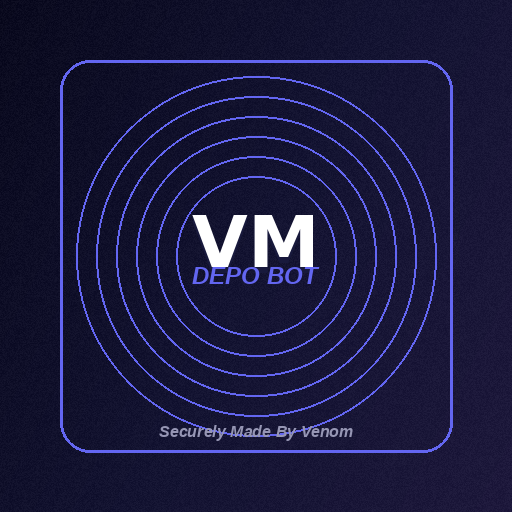
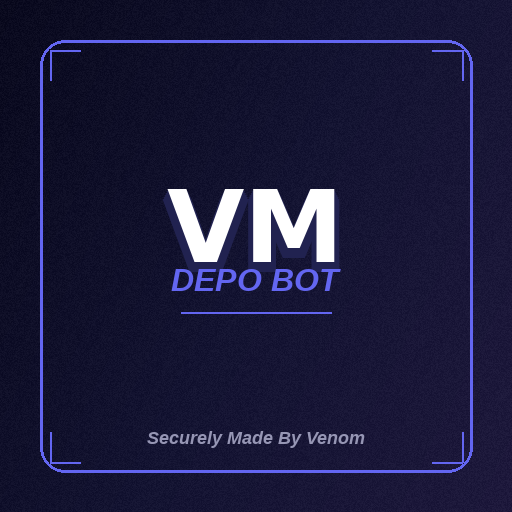
Redesign profile picture - remove circles, add clean corner accents

diff --git a/generate_banners.py b/generate_banners.py
@@ -160,7 +160,7 @@ for title, subtitle, filename, accent, gradient in banners:
     create_banner(title, subtitle, filename, accent, gradient)
 
 def create_profile_picture():
-    """Create a professional circular profile picture matching the banner theme."""
+    """Create a professional profile picture matching the banner theme."""
     size = 512
     accent_color = (99, 102, 241)
     gradient_colors = [(10, 10, 30), (20, 20, 50), (30, 25, 60)]
@@ -170,17 +170,22 @@ def create_profile_picture():
     
     draw = ImageDraw.Draw(img)
     
-    center = size // 2
-    for r in range(180, 60, -20):
-        draw.ellipse([center - r, center - r, center + r, center + r], 
-                    outline=accent_color, width=2)
+    draw.rounded_rectangle([(40, 40), (size - 40, size - 40)], 
+                          radius=25, outline=accent_color, width=3)
     
-    draw.rounded_rectangle([(60, 60), (size - 60, size - 60)], 
-                          radius=30, outline=accent_color, width=3)
+    corner_size = 30
+    draw.line([(50, 50), (50 + corner_size, 50)], fill=accent_color, width=2)
+    draw.line([(50, 50), (50, 50 + corner_size)], fill=accent_color, width=2)
+    draw.line([(size - 50 - corner_size, 50), (size - 50, 50)], fill=accent_color, width=2)
+    draw.line([(size - 50, 50), (size - 50, 50 + corner_size)], fill=accent_color, width=2)
+    draw.line([(50, size - 50 - corner_size), (50, size - 50)], fill=accent_color, width=2)
+    draw.line([(50, size - 50), (50 + corner_size, size - 50)], fill=accent_color, width=2)
+    draw.line([(size - 50, size - 50 - corner_size), (size - 50, size - 50)], fill=accent_color, width=2)
+    draw.line([(size - 50 - corner_size, size - 50), (size - 50, size - 50)], fill=accent_color, width=2)
     
     try:
-        title_font = ImageFont.truetype("/usr/share/fonts/truetype/dejavu/DejaVuSans-Bold.ttf", 72)
-        subtitle_font = ImageFont.truetype("/usr/share/fonts/truetype/liberation/LiberationSans-BoldItalic.ttf", 24)
+        title_font = ImageFont.truetype("/usr/share/fonts/truetype/dejavu/DejaVuSans-Bold.ttf", 100)
+        subtitle_font = ImageFont.truetype("/usr/share/fonts/truetype/liberation/LiberationSans-BoldItalic.ttf", 32)
     except:
         title_font = ImageFont.load_default()
         subtitle_font = ImageFont.load_default()
@@ -190,11 +195,13 @@ def create_profile_picture():
     text_width = text_bbox[2] - text_bbox[0]
     text_height = text_bbox[3] - text_bbox[1]
     text_x = (size - text_width) // 2
-    text_y = (size - text_height) // 2 - 30
+    text_y = (size - text_height) // 2 - 50
     
-    for offset in range(6, 0, -2):
-        shadow_color = (accent_color[0]//4, accent_color[1]//4, accent_color[2]//4)
-        draw.text((text_x, text_y + offset), text, font=title_font, fill=shadow_color)
+    for offset in range(10, 0, -2):
+        glow_alpha = int(40 * (offset / 10))
+        glow_color = (accent_color[0]//3, accent_color[1]//3, accent_color[2]//3)
+        draw.text((text_x - offset//2, text_y + offset), text, font=title_font, fill=glow_color)
+        draw.text((text_x + offset//2, text_y + offset), text, font=title_font, fill=glow_color)
     
     draw.text((text_x, text_y), text, font=title_font, fill=(255, 255, 255))
     
@@ -202,18 +209,23 @@ def create_profile_picture():
     sub_bbox = draw.textbbox((0, 0), subtitle, font=subtitle_font)
     sub_width = sub_bbox[2] - sub_bbox[0]
     sub_x = (size - sub_width) // 2
-    sub_y = text_y + text_height + 10
+    sub_y = text_y + text_height + 20
     draw.text((sub_x, sub_y), subtitle, font=subtitle_font, fill=accent_color)
+    
+    line_y = sub_y + 50
+    line_width = 150
+    draw.line([(size//2 - line_width//2, line_y), (size//2 + line_width//2, line_y)], 
+              fill=accent_color, width=2)
     
     tagline = "Securely Made By Venom"
     try:
-        tagline_font = ImageFont.truetype("/usr/share/fonts/truetype/liberation/LiberationSans-BoldItalic.ttf", 16)
+        tagline_font = ImageFont.truetype("/usr/share/fonts/truetype/liberation/LiberationSans-BoldItalic.ttf", 18)
     except:
         tagline_font = ImageFont.load_default()
     tag_bbox = draw.textbbox((0, 0), tagline, font=tagline_font)
     tag_width = tag_bbox[2] - tag_bbox[0]
     tag_x = (size - tag_width) // 2
-    tag_y = size - 90
+    tag_y = size - 85
     draw.text((tag_x, tag_y), tagline, font=tagline_font, fill=(150, 150, 180))
     
     assets_dir = "/home/ubuntu/repos/depo-bot/assets"
